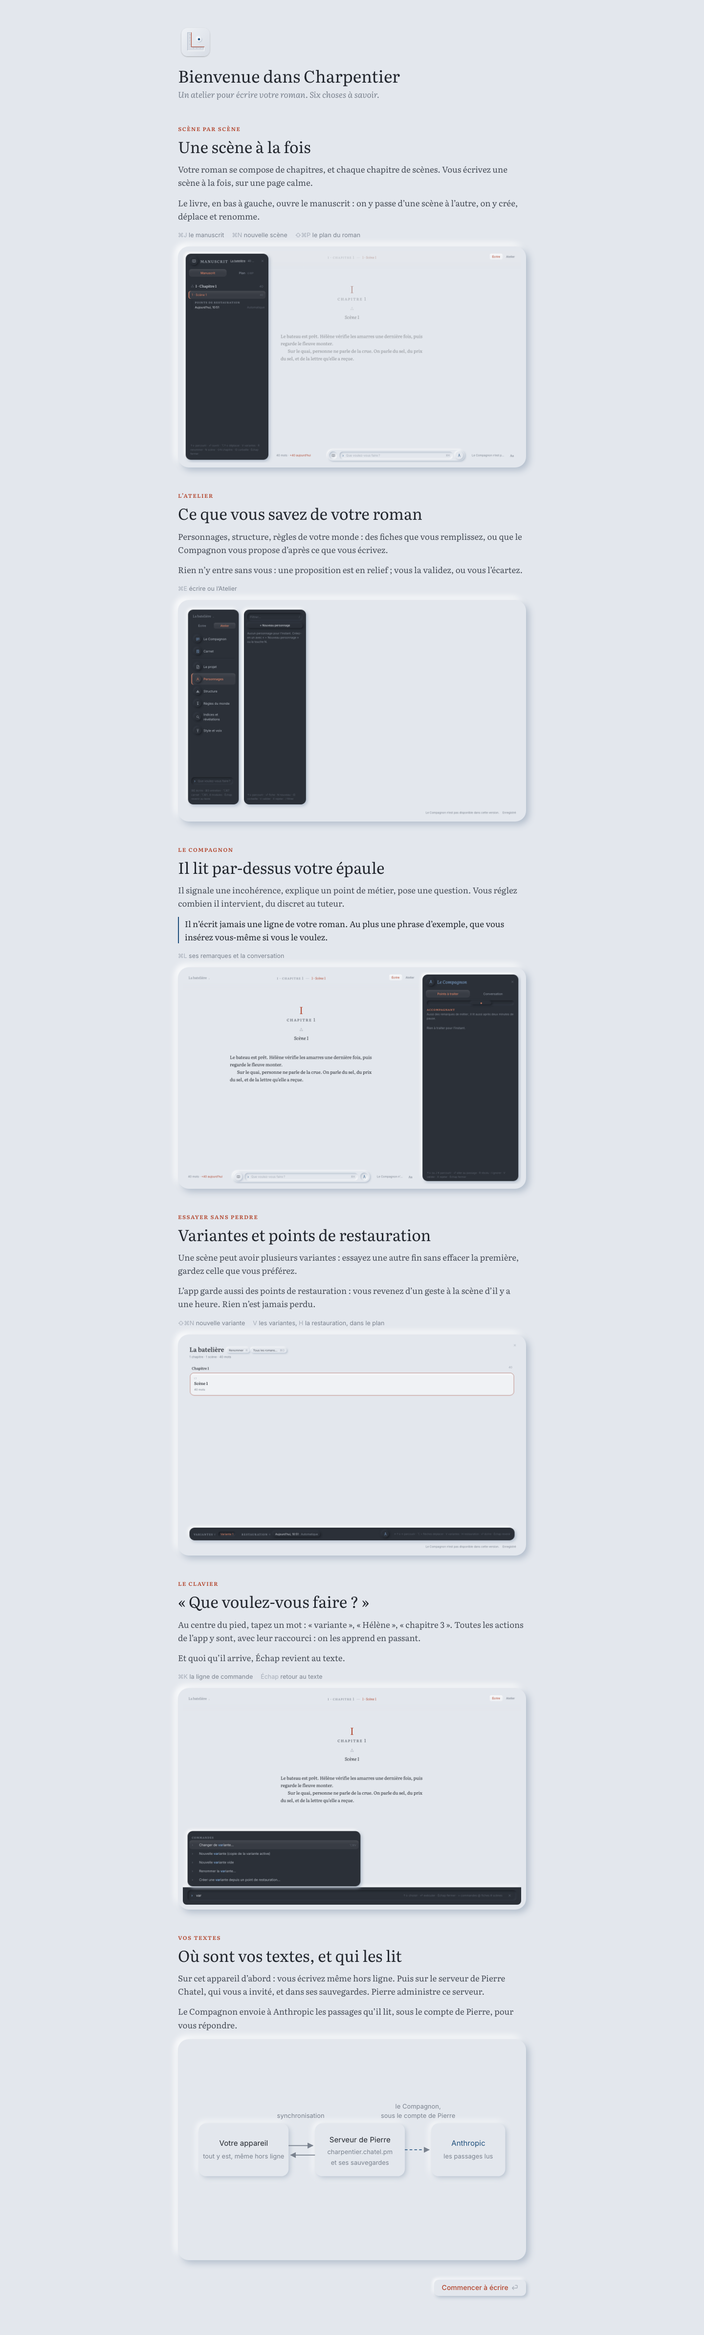
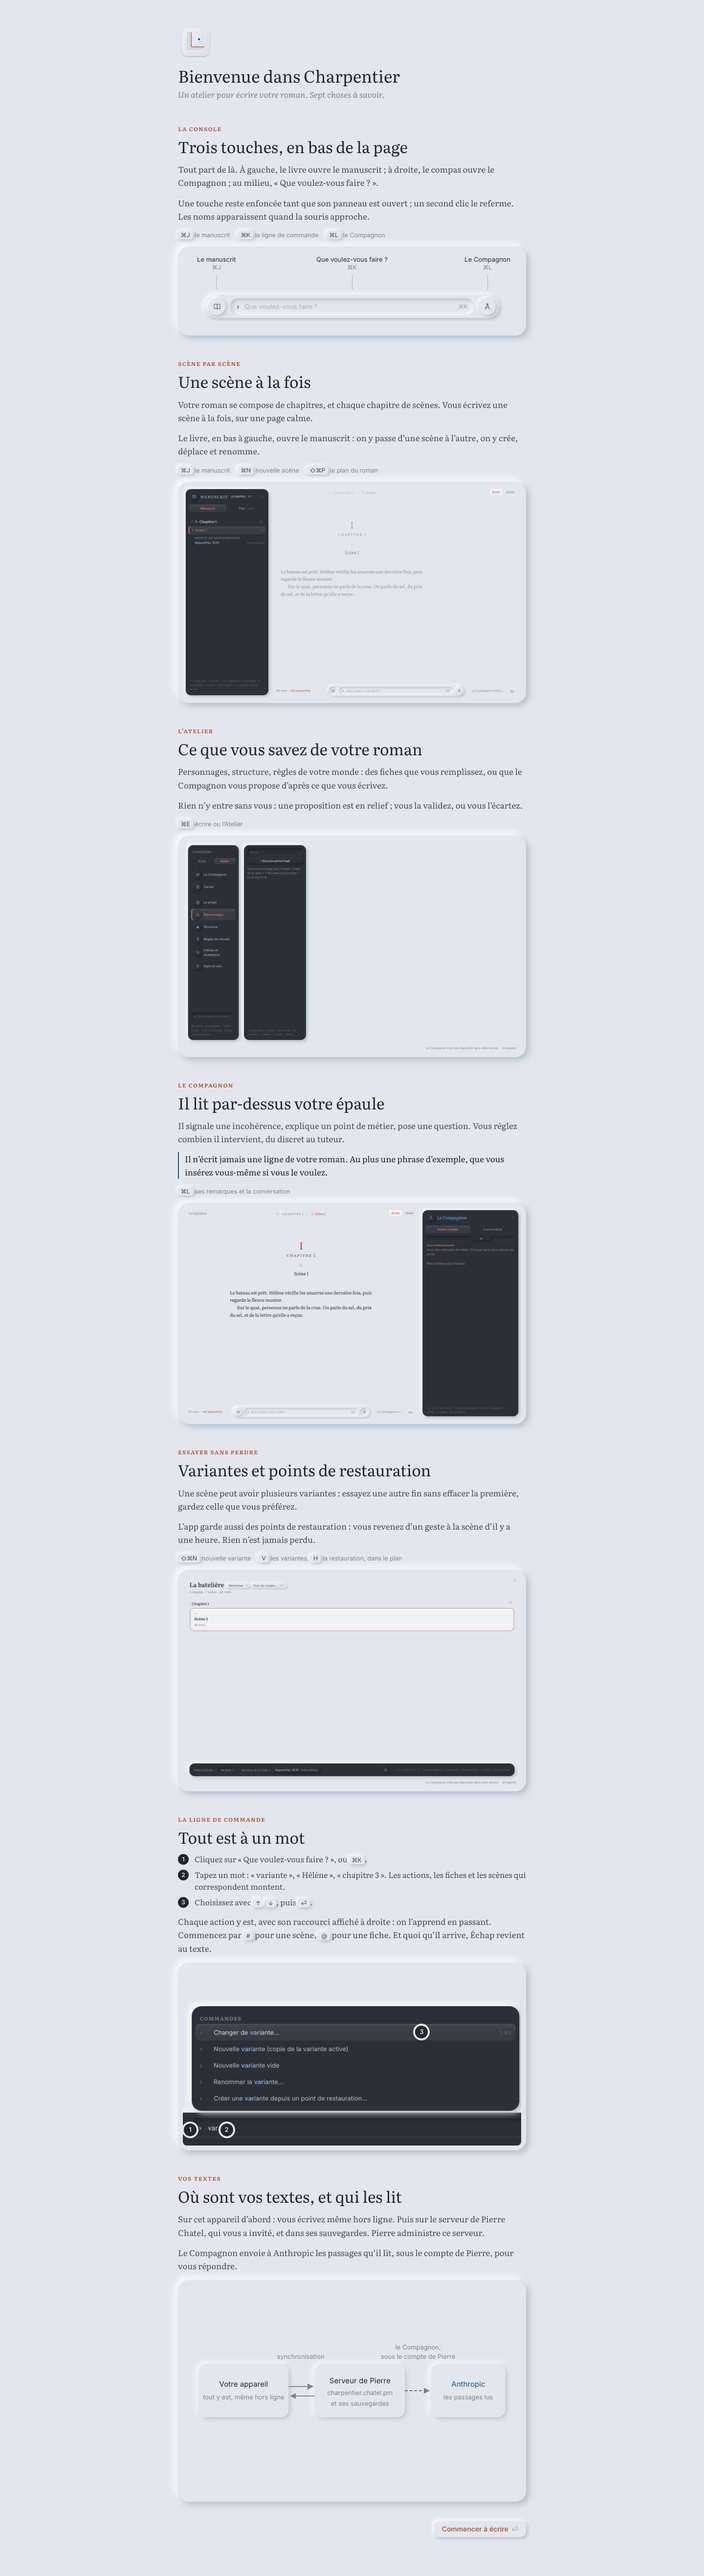
docs(design): the welcome in eight pages: the console's three keys and how the command line works, as the author asked

diff --git a/docs/design/accueil.html b/docs/design/accueil.html
@@ -128,6 +128,80 @@
       .nav .main {
         color: var(--ch-author);
       }
+      .shot {
+        position: relative;
+      }
+      .mark {
+        position: absolute;
+        transform: translate(-50%, -50%);
+        display: grid;
+        place-items: center;
+        width: 26px;
+        height: 26px;
+        border-radius: 50%;
+        background: var(--ch-ink);
+        color: var(--ch-bg);
+        font: 600 13px/1 var(--ch-font-ui);
+        box-shadow: 0 0 0 4px var(--ch-bg);
+      }
+      .console {
+        padding: 70px 26px 30px;
+      }
+      .console .lab {
+        position: absolute;
+        top: 18px;
+        transform: translateX(-50%);
+        text-align: center;
+        color: var(--ch-ink);
+        font: 13px/1.35 var(--ch-font-ui);
+        white-space: nowrap;
+      }
+      .console .lab small {
+        display: block;
+        color: var(--ch-muted);
+        font-size: 12px;
+      }
+      .console .lab::after {
+        content: '';
+        position: absolute;
+        left: 50%;
+        top: 40px;
+        width: 1px;
+        height: 30px;
+        background: var(--ch-faint);
+      }
+      .text kbd {
+        padding: 1px 6px;
+        border-radius: 5px;
+        box-shadow: var(--ch-raise-s);
+        color: var(--ch-ink-2);
+        font: 12.5px var(--ch-font-ui);
+      }
+      .steps {
+        margin: 0 0 14px;
+        padding: 0;
+        list-style: none;
+        counter-reset: s;
+      }
+      .steps li {
+        display: flex;
+        gap: 12px;
+        margin-bottom: 8px;
+        color: var(--ch-ink-2);
+        font: 16px/1.5 var(--ch-font-text);
+      }
+      .steps li b {
+        flex: none;
+        display: grid;
+        place-items: center;
+        width: 22px;
+        height: 22px;
+        margin-top: 2px;
+        border-radius: 50%;
+        background: var(--ch-ink);
+        color: var(--ch-bg);
+        font: 600 12px/1 var(--ch-font-ui);
+      }
       .diagram text {
         font: 14px var(--ch-font-ui);
         fill: var(--ch-ink);
@@ -198,15 +272,33 @@
         <text class="small" x="223" y="140" text-anchor="middle">synchronisation</text>
         <text class="small" x="445" y="122" text-anchor="middle">le Compagnon,</text><text class="small" x="445" y="140" text-anchor="middle">sous le compte de Pierre</text>
       </svg>`;
+      const CONSOLE = `${img('console')}
+        <span class="lab" style="left:${26 + 0.948 * 8}px;left:calc(26px + (100% - 52px) * 0.08)">Le manuscrit<small>⌘J</small></span>
+        <span class="lab" style="left:calc(26px + (100% - 52px) * 0.5)">Que voulez-vous faire ?<small>⌘K</small></span>
+        <span class="lab" style="left:calc(26px + (100% - 52px) * 0.92)">Le Compagnon<small>⌘L</small></span>`;
       const PAGES = [
         {
           k: 'Bienvenue',
           t: 'Un atelier pour écrire votre roman',
           p: [
             'Charpentier vous accompagne pendant que vous écrivez : il range ce que vous inventez, vérifie la cohérence, explique le métier.',
-            'Six choses à savoir avant de commencer. Deux minutes ; vous pourrez tout relire plus tard.',
+            'Sept choses à savoir avant de commencer. Deux minutes ; vous pourrez tout relire plus tard, par la ligne de commande : « Revoir l’accueil ».',
           ],
           img: 'ecrire',
+        },
+        {
+          k: 'La console',
+          t: 'Trois touches, en bas de la page',
+          p: [
+            'Tout part de là. À gauche, le livre ouvre le manuscrit ; à droite, le compas ouvre le Compagnon ; au milieu, « Que voulez-vous faire ? ».',
+            'Une touche reste enfoncée tant que son panneau est ouvert ; un second clic le referme. Les noms apparaissent quand la souris approche.',
+          ],
+          keys: [
+            '<kbd>⌘J</kbd> le manuscrit',
+            '<kbd>⌘K</kbd> la ligne de commande',
+            '<kbd>⌘L</kbd> le Compagnon',
+          ],
+          console: true,
         },
         {
           k: 'Scène par scène',
@@ -257,14 +349,22 @@
           img: 'variantes',
         },
         {
-          k: 'Le clavier',
-          t: '« Que voulez-vous faire ? »',
-          p: [
-            'Au centre du pied, tapez un mot : « variante », « Hélène », « chapitre 3 ». Toutes les actions de l’app y sont, avec leur raccourci : on les apprend en passant.',
-            'Et quoi qu’il arrive, Échap revient au texte.',
+          k: 'La ligne de commande',
+          t: 'Tout est à un mot',
+          steps: [
+            'Cliquez sur « Que voulez-vous faire ? », ou <kbd>⌘K</kbd>.',
+            'Tapez un mot : « variante », « Hélène », « chapitre 3 ». Les actions, les fiches et les scènes qui correspondent montent.',
+            'Choisissez avec <kbd>↑</kbd> <kbd>↓</kbd>, puis <kbd>⏎</kbd>.',
           ],
-          keys: ['<kbd>⌘K</kbd> la ligne de commande', '<kbd>Échap</kbd> retour au texte'],
-          img: 'commande',
+          p: [
+            'Chaque action y est, avec son raccourci affiché à droite : on l’apprend en passant. Commencez par <kbd>#</kbd> pour une scène, <kbd>@</kbd> pour une fiche. Et quoi qu’il arrive, Échap revient au texte.',
+          ],
+          img: 'commande-zoom',
+          marks: [
+            { x: 3.5, y: 89, n: 1 },
+            { x: 14, y: 89, n: 2 },
+            { x: 70, y: 37, n: 3 },
+          ],
         },
         {
           k: 'Vos textes',
@@ -280,13 +380,13 @@
       const forme = P.get('forme') || 'pages';
       const root = document.getElementById('root');
       const body = (pg) =>
-        `${pg.p.map((x) => `<p>${x}</p>`).join('')}${pg.never ? `<p class="never">${pg.never}</p>` : ''}${pg.keys ? `<div class="keys">${pg.keys.map((k) => `<span>${k}</span>`).join('')}</div>` : ''}`;
+        `${pg.steps ? `<ol class="steps">${pg.steps.map((x, i) => `<li><b>${i + 1}</b><span>${x}</span></li>`).join('')}</ol>` : ''}${pg.p.map((x) => `<p>${x}</p>`).join('')}${pg.never ? `<p class="never">${pg.never}</p>` : ''}${pg.keys ? `<div class="keys">${pg.keys.map((k) => `<span>${k}</span>`).join('')}</div>` : ''}`;
       if (forme === 'pages') {
         const n = Math.min(Math.max(+(P.get('page') || 1), 1), PAGES.length);
         const pg = PAGES[n - 1];
         root.innerHTML = `<div class="welcome">
           <div class="top"><img src="icon/charpentier.svg" alt="" /><span class="kicker">${pg.k}</span><span>${n} / ${PAGES.length}</span><span class="skip">Passer <kbd>Échap</kbd></span></div>
-          <div class="stage"><div class="shot">${pg.diagram ? DIAGRAM : img(pg.img)}</div><div class="text"><h2>${pg.t}</h2>${body(pg)}</div></div>
+          <div class="stage"><div class="shot${pg.console ? ' console' : ''}">${pg.diagram ? DIAGRAM : pg.console ? CONSOLE : img(pg.img) + (pg.marks || []).map((m) => `<span class="mark" style="left:${m.x}%;top:${m.y}%">${m.n}</span>`).join('')}</div><div class="text"><h2>${pg.t}</h2>${body(pg)}</div></div>
           <div class="nav"><span class="dots">${PAGES.map((_, i) => `<i class="${i + 1 === n ? 'on' : i + 1 < n ? 'done' : ''}"></i>`).join('')}</span>
             ${n > 1 ? `<button class="ch-btn prev">Précédent <kbd>←</kbd></button>` : ''}
             <button class="ch-btn main">${pg.last ? 'Commencer à écrire' : 'Suivant'} <kbd>${pg.last ? '⏎' : '→'}</kbd></button></div>
@@ -295,11 +395,11 @@
         root.innerHTML = `<div class="letter">
           <img src="icon/charpentier.svg" alt="" style="width:72px;margin:-6px 0" />
           <h1>Bienvenue dans Charpentier</h1>
-          <p style="color:var(--ch-muted);font:italic 17px/1.5 var(--ch-font-text);margin:0">Un atelier pour écrire votre roman. Six choses à savoir.</p>
+          <p style="color:var(--ch-muted);font:italic 17px/1.5 var(--ch-font-text);margin:0">Un atelier pour écrire votre roman. Sept choses à savoir.</p>
           ${PAGES.slice(1)
             .map(
               (pg) =>
-                `<section class="text"><div class="top" style="margin-bottom:8px"><span class="kicker">${pg.k}</span></div><h2>${pg.t}</h2>${body(pg)}<div class="shot">${pg.diagram ? DIAGRAM : img(pg.img)}</div></section>`,
+                `<section class="text"><div class="top" style="margin-bottom:8px"><span class="kicker">${pg.k}</span></div><h2>${pg.t}</h2>${body(pg)}<div class="shot${pg.console ? ' console' : ''}">${pg.diagram ? DIAGRAM : pg.console ? CONSOLE : img(pg.img) + (pg.marks || []).map((m) => `<span class="mark" style="left:${m.x}%;top:${m.y}%">${m.n}</span>`).join('')}</div></section>`,
             )
             .join('')}
           <div class="nav" style="margin-top:40px"><span class="dots"></span><button class="ch-btn main">Commencer à écrire <kbd>⏎</kbd></button></div>
